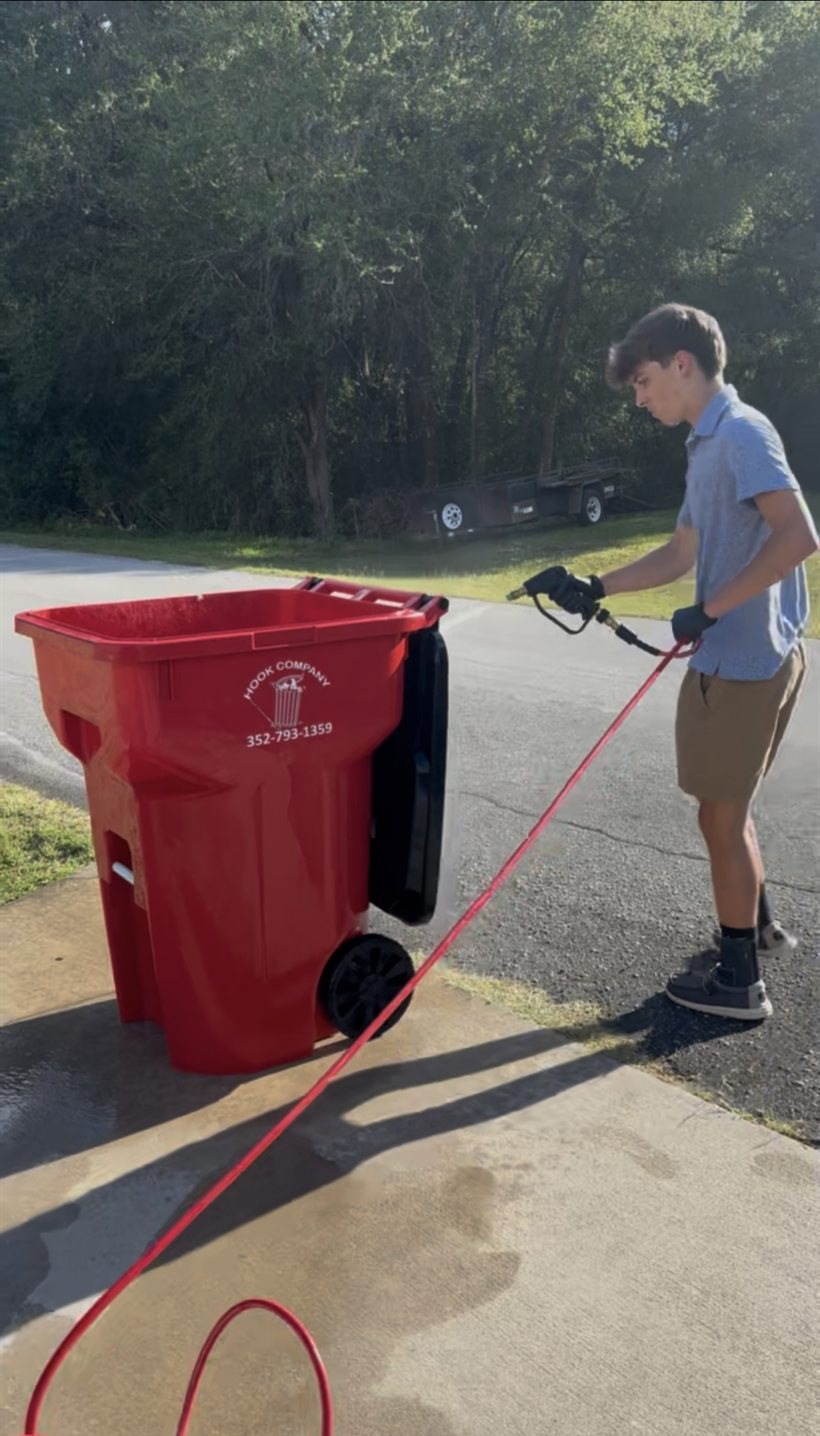
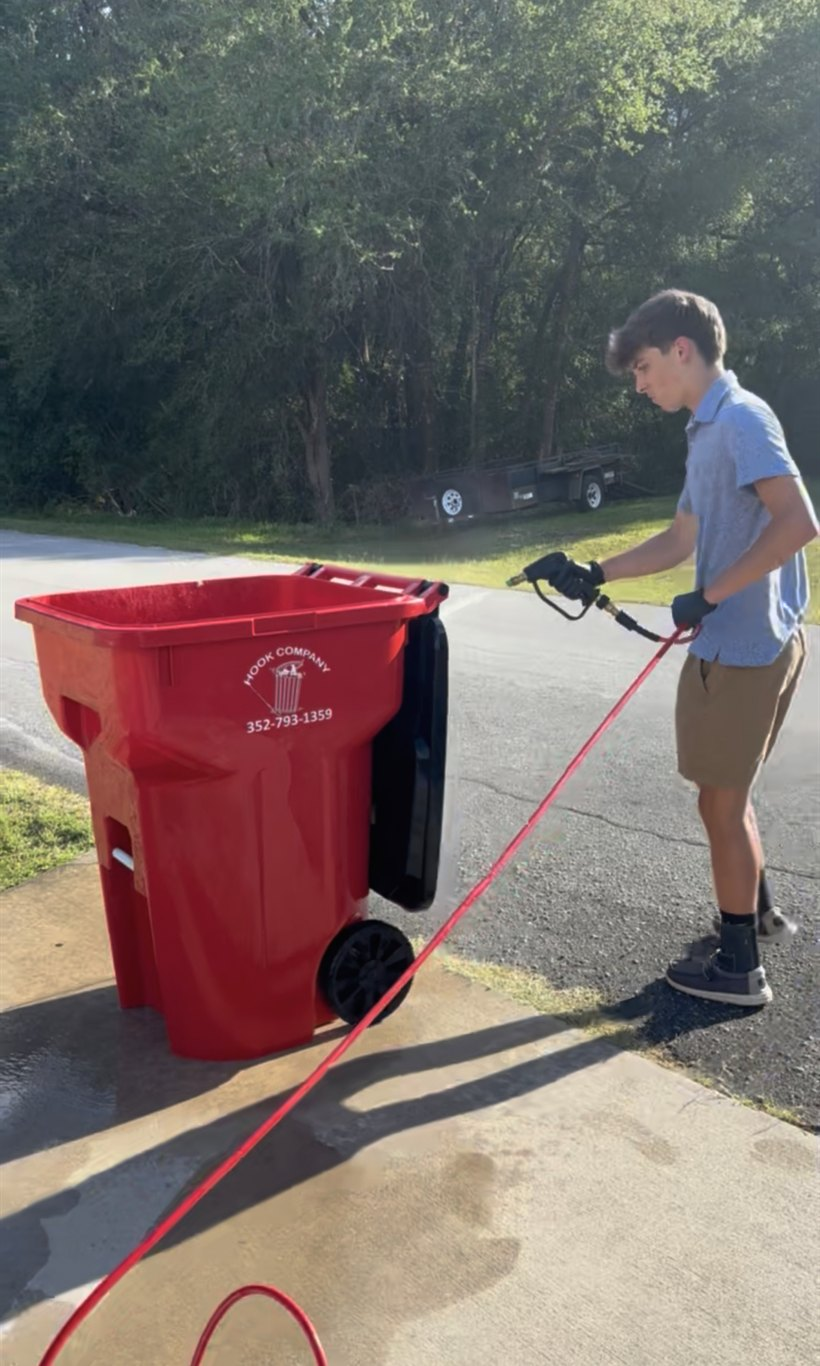
Clean up website photos

diff --git a/styles.css b/styles.css
@@ -608,14 +608,14 @@ h3 {
 
 .work-gallery {
   display: grid;
-  grid-template-columns: minmax(0, 1.1fr) minmax(240px, 0.9fr);
+  grid-template-columns: repeat(2, minmax(0, 1fr));
   gap: 18px;
 }
 
 .work-card {
   position: relative;
   overflow: hidden;
-  min-height: 360px;
+  min-height: 620px;
   margin: 0;
   border: 1px solid var(--line);
   border-radius: var(--radius);
@@ -624,12 +624,7 @@ h3 {
 }
 
 .work-card-feature {
-  grid-row: span 2;
   min-height: 620px;
-}
-
-.work-card-wide {
-  min-height: 280px;
 }
 
 .work-card img {
@@ -642,10 +637,6 @@ h3 {
 
 .work-card-feature img {
   object-position: 55% 55%;
-}
-
-.work-card-wide img {
-  object-position: 34% 45%;
 }
 
 .work-card figcaption {
@@ -1087,10 +1078,6 @@ textarea:focus {
     min-height: 460px;
   }
 
-  .work-card-wide {
-    min-height: 340px;
-  }
-
   .contact-copy {
     position: static;
   }
@@ -1238,8 +1225,7 @@ textarea:focus {
   }
 
   .work-card,
-  .work-card-feature,
-  .work-card-wide {
+  .work-card-feature {
     min-height: auto;
   }
 

diff --git a/index.html b/index.html
@@ -389,19 +389,6 @@
               We handle the mess so your bins are cleaner between pickup days.
             </figcaption>
           </figure>
-          <figure class="work-card work-card-wide">
-            <img
-              src="assets/work-bin-detail.jpg"
-              alt="Inside of a trash bin before debris removal and cleaning"
-              width="1100"
-              height="825"
-              loading="lazy"
-            />
-            <figcaption>
-              <strong>Detail-focused cleanup</strong>
-              Loose debris and grime are addressed before the final rinse.
-            </figcaption>
-          </figure>
         </div>
       </div>
     </section>
